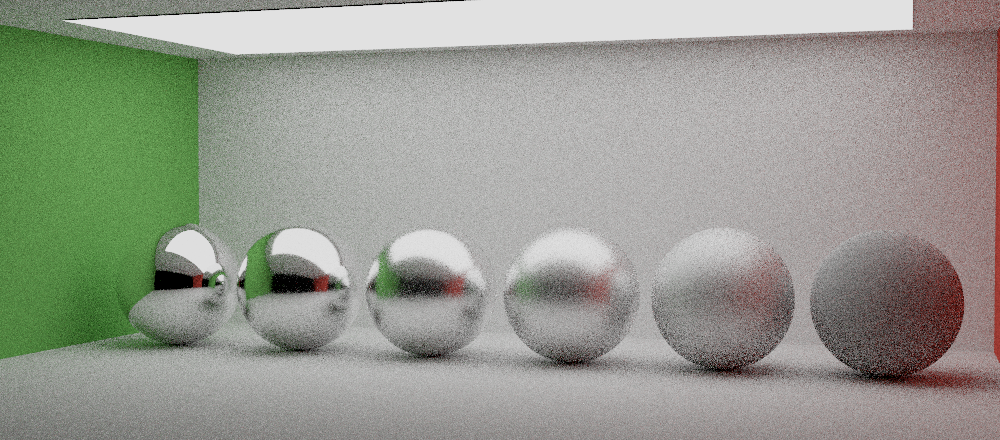
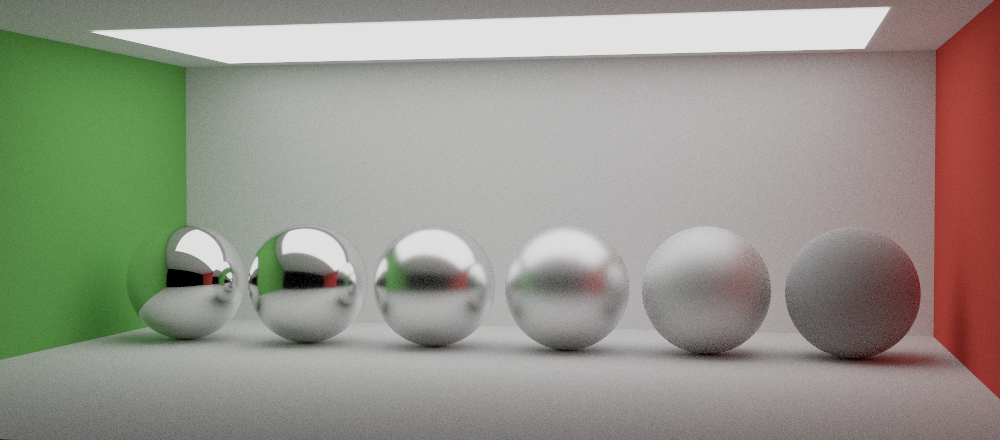
update roughness test preview
update roughness test preview:
integrator: mis->path
spp:16->512

Changed region(s): [[0.0, 0.0, 1.0, 1.0], [0.651, 0.5318, 0.682, 0.5909], [0.682, 0.5023, 0.713, 0.5318]]

diff --git a/src/scene/make_scene.cpp b/src/scene/make_scene.cpp
@@ -108,7 +108,7 @@ SceneSetup MakeRoughness() {
     }
 
     return {std::move(scene), std::make_unique<PinholeCamera>(
-        Vec3f{2.8f, 1.25f, 8.5f}, Vec3f{0, 1, 0}, 20.0f, 1000, 440)};
+        Vec3f{2.1f, 1.25f, 9.5f}, Vec3f{0, 1, 0}, 20.0f, 1000, 440)};
 }
 
 SceneSetup MakeAreaLight() {

diff --git a/README.md b/README.md
@@ -90,7 +90,7 @@ macOS：你需要 clang (安装 Xcode commandline tools) + CMake。
 
 - 粗糙度测试
 
-命令：`./tdsg_render --scene roughness_test --integrator mis --spp 16`
+命令：`./tdsg_render --scene roughness_test --integrator path --spp 512`
 <p align="center">
   <img src="assets/roughness.png" width="1000"/>
 </p>
